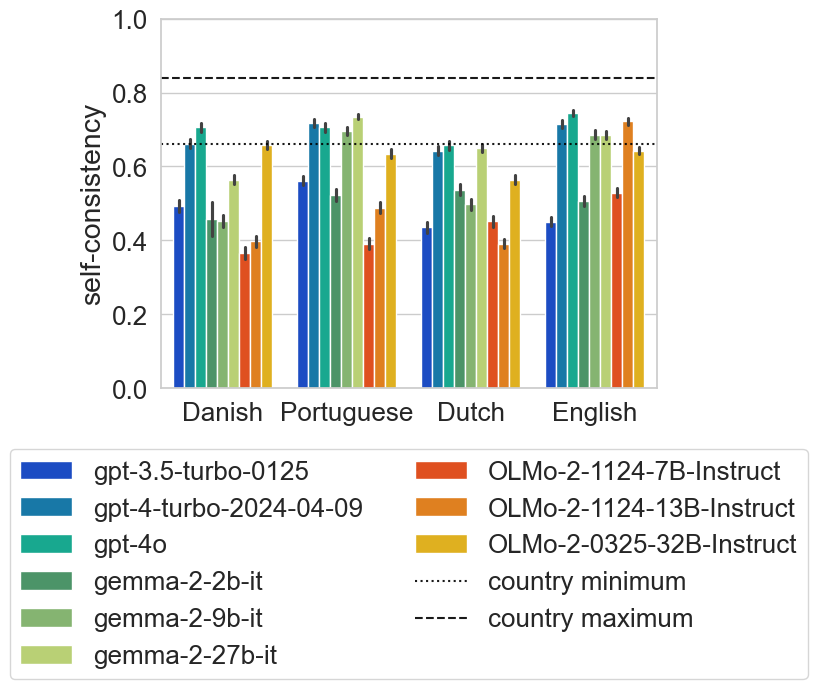
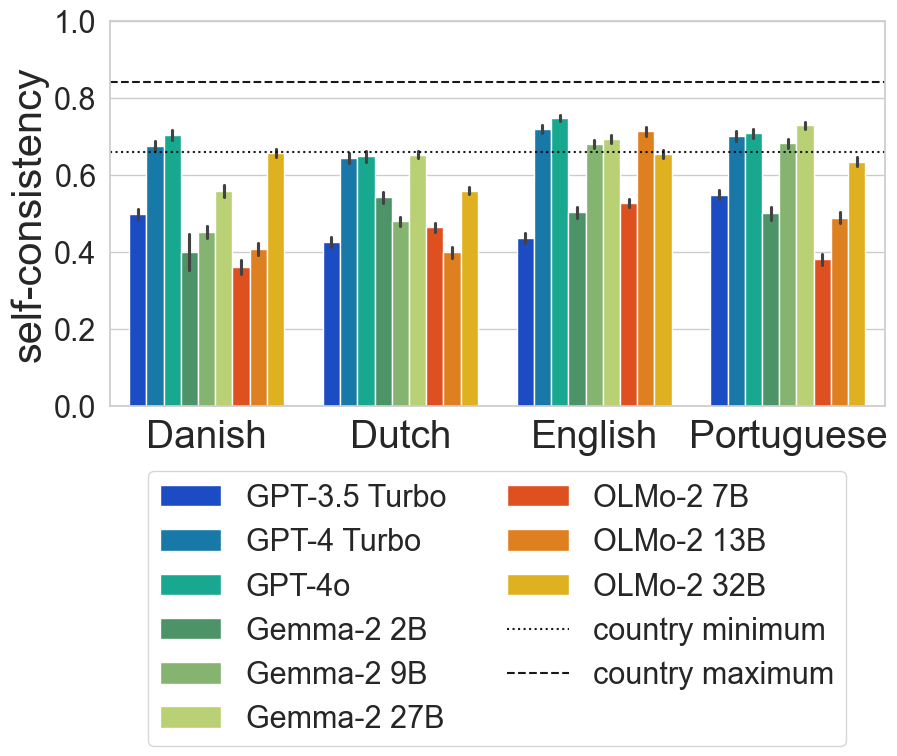
update self consistency

diff --git a/scripts/plot_consistency.py b/scripts/plot_consistency.py
@@ -1,12 +1,14 @@
+import argparse
+
 import matplotlib.pyplot as plt
 import polars as pl
 import seaborn as sns
 from tqdm import tqdm
 
-from multicultural_alignment.constants import LANGUAGE_MAP, PLOT_DIR
+from multicultural_alignment.constants import CLEAN_MODEL_NAMES, LANGUAGE_MAP, PLOT_DIR
 from multicultural_alignment.data import load_results
 from multicultural_alignment.models import get_model_enum
-from multicultural_alignment.plot import get_model_color_dict
+from multicultural_alignment.plot import get_renamed_colours
 
 
 def calculate_language_self_correlations(
@@ -44,7 +46,11 @@ def simplified_create_consistency(correlation_dicts: list[dict[str, pl.DataFrame
 
 
 if __name__ == "__main__":
-    sns.set_theme(font_scale=1.7, style="whitegrid")
+    parser = argparse.ArgumentParser(description="Plot model self-consistency.")
+    parser.add_argument("--scale", type=float, default=1.7)
+    args = parser.parse_args()
+
+    sns.set_theme(font_scale=args.scale, style="whitegrid")
     # 3x3 grid for the plot
     raw_responses = load_results(as_polars=True).filter(pl.col("template_type") == "survey_hypothetical")
     filtered_results = raw_responses.filter(pl.col("model_family") != "mistral").cast({"model_name": get_model_enum()})
@@ -61,12 +67,23 @@ if __name__ == "__main__":
         correlations_dicts.append(correlation_dict)
 
     consistency_df = simplified_create_consistency(correlation_dicts=correlations_dicts).with_columns(
-        pl.col("language").replace(LANGUAGE_MAP)
+        pl.col("language").replace(LANGUAGE_MAP),
+        pl.col("model").replace(CLEAN_MODEL_NAMES),
     )
 
-    sns.barplot(
-        data=consistency_df.to_pandas(), x="language", y="self-consistency", hue="model", palette=get_model_color_dict()
+    plt.figure(figsize=(10, 5))
+    color_dict = get_renamed_colours()
+    plot = sns.barplot(
+        data=consistency_df.sort("language"),
+        x="language",
+        y="self-consistency",
+        hue="model",
+        palette=color_dict,
     )
+    font_size = 30
+    plot.set_ylabel("self-consistency", fontsize=font_size)
+    plot.set_xlabel(None)
+    plot.set_xticklabels(plot.get_xticklabels(), fontsize=font_size - 2)
     # move legend below and 1 row
     plt.axhline(y=0.66, color="black", linestyle=":", alpha=0.9, label="country minimum")
     plt.axhline(y=0.84, color="black", linestyle="--", alpha=0.9, label="country maximum")

diff --git a/scripts/plot_multilingual_benchmarks.py b/scripts/plot_multilingual_benchmarks.py
@@ -10,7 +10,7 @@ from loguru import logger
 from statsmodels.regression.linear_model import RegressionResults
 from tqdm import tqdm
 
-from multicultural_alignment.constants import COUNTRY_LANG_MAP, LANGUAGE_MAP, OUTPUT_DIR, PLOT_DIR
+from multicultural_alignment.constants import CLEAN_MODEL_NAMES, COUNTRY_LANG_MAP, LANGUAGE_MAP, OUTPUT_DIR, PLOT_DIR
 from multicultural_alignment.models import add_families_df, get_model_enum
 from multicultural_alignment.plot import get_family_color_dict, get_model_color_dict, rename_color_dict
 from multicultural_alignment.regression import extract_results_df, extract_term, save_regression_results
@@ -37,20 +37,10 @@ MODEL_NAME_MAPPING = {
     "OLMo-2 13B": "OLMo-2-1124-13B-Instruct",
     "OLMo-2 32B": "OLMo-2-0325-32B-Instruct",
 }
+
 ADJUSTMENT_FORMULAS = {
     "interaction": "alignment ~ 0 + consistency:language + language:model_name",
     "normal": "alignment ~ 0 + consistency + language:model_name",
-}
-CLEAN_MODEL_NAMES = {
-    "gpt-3.5-turbo-0125": "GPT-3.5 Turbo",
-    "gpt-4-turbo-2024-04-09": "GPT-4 Turbo",
-    "gpt-4o": "GPT-4o",
-    "gemma-2-2b-it": "Gemma-2 2B",
-    "gemma-2-9b-it": "Gemma-2 9B",
-    "gemma-2-27b-it": "Gemma-2 27B",
-    "OLMo-2-1124-7B-Instruct": "OLMo-2 7B",
-    "OLMo-2-1124-13B-Instruct": "OLMo-2 13B",
-    "OLMo-2-0325-32B-Instruct": "OLMo-2 32B",
 }
 
 

diff --git a/src/multicultural_alignment/plot.py b/src/multicultural_alignment/plot.py
@@ -2,6 +2,7 @@ from collections import OrderedDict
 
 import seaborn as sns
 
+from multicultural_alignment.constants import CLEAN_MODEL_NAMES
 from multicultural_alignment.models import MODEL_FAMILIES
 
 
@@ -22,6 +23,10 @@ def get_model_color_dict() -> dict[str, tuple]:
 
 def rename_color_dict(new_names: dict[str, str], color_dict: dict[str, tuple]) -> dict[str, tuple]:
     return {new_names.get(model, model): color for model, color in color_dict.items()}
+
+
+def get_renamed_colours():
+    return rename_color_dict(color_dict=get_model_color_dict(), new_names=CLEAN_MODEL_NAMES)
 
 
 def _last_value(dictionary: dict) -> tuple:

diff --git a/src/multicultural_alignment/constants.py b/src/multicultural_alignment/constants.py
@@ -51,3 +51,16 @@ COUNTRY_MAP = {
     "DK": "Denmark",
     "SG": "Singapore",
 }
+
+
+CLEAN_MODEL_NAMES = {
+    "gpt-3.5-turbo-0125": "GPT-3.5 Turbo",
+    "gpt-4-turbo-2024-04-09": "GPT-4 Turbo",
+    "gpt-4o": "GPT-4o",
+    "gemma-2-2b-it": "Gemma-2 2B",
+    "gemma-2-9b-it": "Gemma-2 9B",
+    "gemma-2-27b-it": "Gemma-2 27B",
+    "OLMo-2-1124-7B-Instruct": "OLMo-2 7B",
+    "OLMo-2-1124-13B-Instruct": "OLMo-2 13B",
+    "OLMo-2-0325-32B-Instruct": "OLMo-2 32B",
+}
